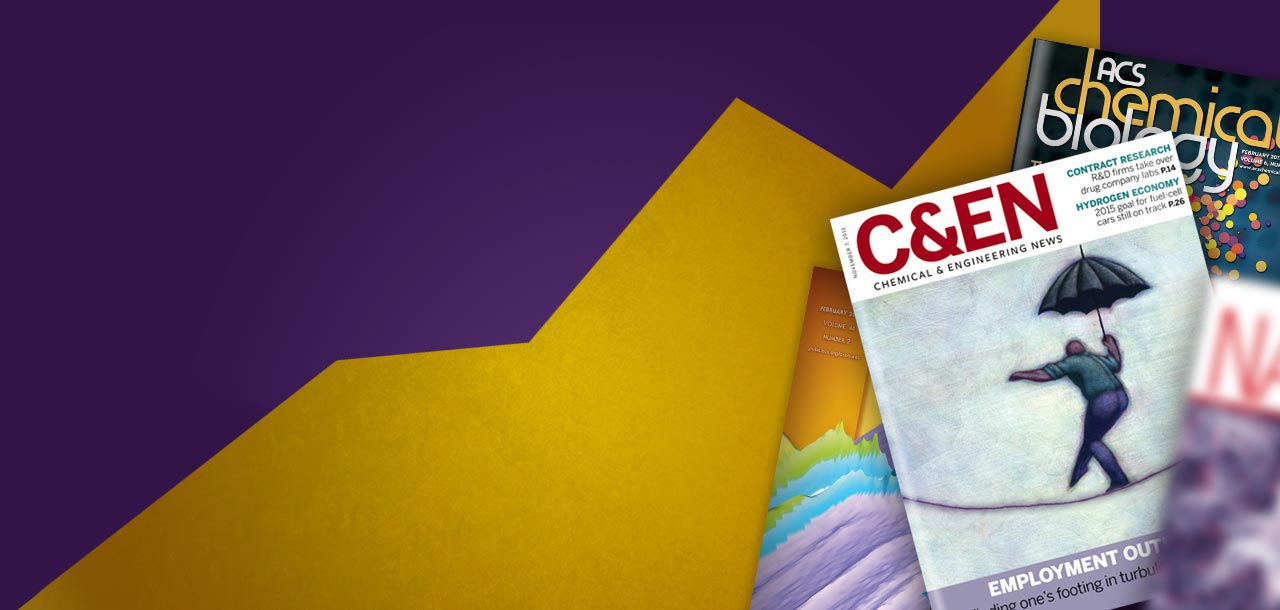
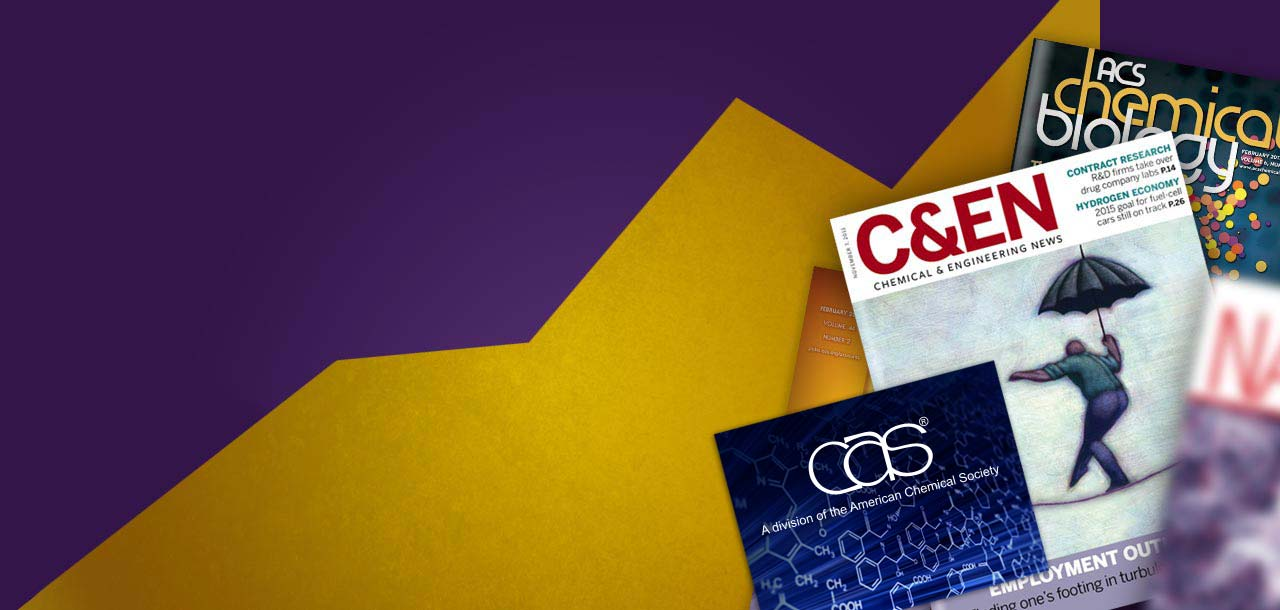
added one extra parallex graphic for goal 1, added "American Chemical Society" to header

Changed region(s): [[0.5312, 0.5918, 0.8438, 1.0]]

diff --git a/css/main.css b/css/main.css
@@ -88,7 +88,7 @@ header { position: fixed; top: 0; width: 100%; z-index: 9998; background: url(..
 .hd { position: relative; z-index: 2000; }
 .hd .row:after { clear: none; }
 .hd .acslogo { position: absolute; z-index: 2000; top: 14px; left: 16px; background: transparent url("../images/acs-logo.png") no-repeat scroll 0 0; width: 157px; height: 54px; }
-.hd .acstext { font-weight: bold; display: none; font-size: 0.9em; }
+.hd .acstext { font-weight: normal; font-size: 1em; position: absolute; top: 52px; right: 0; }
 .hd .hd-corner { width: 195px; height: 60px; background: #fff; position: relative; display: inline-block; float: left; z-index: 2000; }
 .hd .hd-corner:before { content: ""; position: absolute; top: -25px; left: 0; width: 0; height: 0; border-left: 50px solid transparent; border-right: 50px solid transparent; border-bottom: 25px solid #fff; }
 .hd .hd-corner:after { content: ""; position: absolute; bottom: -50px; left: 0; width: 0; height: 0; border-left: 98px solid transparent; border-right: 98px solid transparent; border-top: 50px solid #fff; }
@@ -239,9 +239,10 @@ dl.tabs dd a.active, dl.tabs dd a:hover { color: #226ABC; font-weight: bold; }
 #goal1 .goal-intro .bg { position: absolute; background-repeat: no-repeat; background-position: 75% 20px; background-attachment: fixed; width: 100%; height: 401px; display: none; }
 #goal1 .goal-intro #parallax { position: absolute; right: 0; bottom: 0; width: 40%; height: 400px; }
 #goal1 .goal-intro .sprite { position: absolute; background-color: transparent; background-repeat: no-repeat; background-position: 0 0; display: none; }
-#goal1 .goal-intro .sprite.layer1 { background-image: url(../images/goal1-sprite1.png) !important; width: 727px; height: 750px; top: 90% !important; right: -460px; z-index: 3; }
+#goal1 .goal-intro .sprite.layer1 { background-image: url(../images/goal1-sprite1.png) !important; width: 727px; height: 750px; top: 90% !important; right: -460px; z-index: 4; }
 #goal1 .goal-intro .sprite.layer2 { width: 500px; height: 565px; background-position: -11px -24px; right: -40px; z-index: 2; }
 #goal1 .goal-intro .sprite.layer3 { width: 626px; height: 760px; background-position: -515px -1px; top: -90px; right: -90px !important; z-index: 1; }
+#goal1 .goal-intro .sprite.layer4 { width: 350px; height: 255px; background-position: -959px -478px; top: 46%; right: 230px !important; z-index: 3; }
 
 #goal2 .goal-intro { background: #111; }
 #goal2 .goal-intro .sprite-wrap { position: relative; top: -137px; margin: 0 auto; width: 1280px; height: 400px; }
@@ -305,7 +306,7 @@ dl.tabs dd a.active, dl.tabs dd a:hover { color: #226ABC; font-weight: bold; }
   header { background-position: 0 0; min-height: 45px; }
   header .hd .acslogo { display: none; }
   header .hd .hd-corner { display: none; }
-  header .hd .acstext { display: inline-block; float: left; margin-top: 7px; }
+  header .hd .acstext { display: inline-block; float: left; margin-top: 7px; font-weight: bold; font-size: 0.9em; }
   header nav { top: 1px; width: auto; }
   header nav ul { display: none; }
   header nav select { display: inline-block; }

diff --git a/index.html b/index.html
@@ -171,6 +171,7 @@
 				<span class="sprite layer1 parallax-layer"></span>
 				<span class="sprite layer2 parallax-layer"></span>
 				<span class="sprite layer3 parallax-layer"></span>
+				<span class="sprite layer4 parallax-layer"></span>
 			</div>
 		</span>
 		<div class="row">
@@ -225,9 +226,9 @@
 						</ul>
 					</li>
 				</ul>
-				<div class="extras">
+				<!--div class="extras">
 					<a class="video" title="Video"><span></span><span class="label">Play Video</span></a></div>
-				</div>
+				</div-->
 			</div>
 			<div class="three columns">&nbsp;</div>
 		</div>
@@ -558,5 +559,48 @@
 <script type="text/javascript" src="http://assets.acs.org/prod/js/lib/jquery/jquery-1.6.2.min.js"></script>
 <script type="text/javascript" src="js/compiled.js"></script>
 <script type="text/javascript" src="js/script.js"></script>
+
+<!-- Omniture Tagging Start -->
+<!-- SiteCatalyst code version: H.22.
+Copyright 1996-2010 Adobe, Inc. All Rights Reserved
+More info available at http://www.omniture.com -->
+<script type="text/javascript" src="https://assets.acs.org/prod/js/lib/omniture/s_code.js"></script>
+<script language="JavaScript" type="text/javascript">
+<!--
+//////VARIABLES SET ON ALL PAGES//////
+
+var baseURL = location.hostname.toLowerCase() + location.pathname.toLowerCase();
+s.pageName = 'About Us:' + baseURL;  // Set the page name equal to the URL.
+
+/////// Replacing part of the page name with other values/////
+if(s.pageName){      s.pageName = s.pageName.replace(/acswebcontent.acs.org\//i,'');}
+s.eVar11 = s.pageName;
+s.prop23 = s.channel =	'About Us';
+s.prop1 = s.evar1 ='About Us:Strategic Plan';
+s.prop2 = s.evar2 = s.prop3 = s.evar3 = 'About Us:Strategic Plan:Stragegic Plan 2012';
+s.hier1 ='About Us:Strategic Plan:Stragegic Plan 2012';
+s.prop22 ='strategy.acs.org';
+//s.server =			//Server, if available: '172.29.11.242', '172.29.11.243';
+
+
+//////VARIABLES SET ON CONTENT PAGES////
+//s.prop4 = 			//content_type
+//s.prop5 = 			//content_title
+//s.prop6 = 			//ContentId 
+
+//////VARIABLES SET ON SEARCH RESULTS PAGES////
+//s.prop7 = 			//Search terms
+//s.prop13 = s.eVar23 = 	//Search type -OR- 'Unknown Search' if unknown search
+//s.events=			//'event1' for Search results page
+
+
+    /************* DO NOT ALTER ANYTHING BELOW THIS LINE ! **************/
+var s_code=s.t();if(s_code)document.write(s_code)//--></script>
+<script language="JavaScript" type="text/javascript"><!--
+if(navigator.appVersion.indexOf('MSIE')>=0)document.write(unescape('%3C')+'\!-'+'-')
+//--></script><noscript><img src="http://americanchemicalsociety.122.2o7.net/b/ss/achsportal/1/H.22.1--NS/0"
+height="1" width="1" border="0" alt="" /></noscript><!--/DO NOT REMOVE/-->
+<!-- End SiteCatalyst code version: H.22.1. -->
+<!-- Omniture Tagging End -->
 </body>
 </html>

diff --git a/css/main.scss b/css/main.scss
@@ -192,9 +192,11 @@ header {
 		height:54px;
 	}
 	.acstext { 
-		font-weight:bold; 
-		display:none; 
-		font-size:0.9em; 
+		font-weight:normal; 
+		font-size:1em; 
+		position:absolute;
+		top:52px;
+		right:0;
 	}
 	.hd-corner { 
 		width: 195px; 
@@ -325,6 +327,7 @@ nav {
 		color:#fff; 
 	}
 }
+
 
 // -----------------------------------------
 //   Core Value
@@ -909,7 +912,7 @@ dl.tabs { margin:2.5em 0 1.5em;
 			height:750px;
 			top:90% !important;
 			right:-460px;
-			z-index:3
+			z-index:4;
 		}
 		&.layer2 { 
 			width:500px;
@@ -925,6 +928,14 @@ dl.tabs { margin:2.5em 0 1.5em;
 			top:-90px;
 			right:-90px !important;
 			z-index:1;
+		}
+		&.layer4 { 
+			width:350px;
+			height:255px;
+			background-position:-959px -478px; 
+			top:46%;
+			right:230px !important;
+			z-index:3;
 		}
 	}		
 }
@@ -1106,20 +1117,24 @@ dl.tabs { margin:2.5em 0 1.5em;
 
 @media only screen and (max-width: 767px) {
 	.block-grid.mobile.four-up li { float:left; width:48%; margin-left:2%; }
-	
 	.downloadpdf { 
 		right:0%;
 		top:20px;
 		float:none;
-	}
-	
+	}	
 	header { 
 		background-position:0 0; 
 		min-height:45px; 
 		.hd { 
 			.acslogo { display:none; }
 			.hd-corner { display:none; }
-			.acstext { display:inline-block; float:left; margin-top:7px; }
+			.acstext { 
+				display:inline-block; 
+				float:left; 
+				margin-top:7px; 
+				font-weight:bold; 
+				font-size:0.9em; 
+			}
 		}
 		nav { 
 			top:1px; 

diff --git a/js/script.js b/js/script.js
@@ -214,11 +214,12 @@ $(document).ready(function() {
 	if(/msie|MSIE 6/.test(navigator.userAgent)) {
 	}else { 
 		//goal 1 parallax
-	  	jQuery('#goal1 #parallax .sprite').parallax(
+	  	jQuery('#goal1 #parallax .parallax-layer').parallax(
 	  		{}, //{mouseport: jQuery("#goal1 #parallax")},
 	  		{xparallax:false, xtravel:'10px' ,ytravel:'20px'}, //layer 0
-	  		{xparallax:true, xtravel:'20px'}, //layer 1
-	  		{xparallax:false, xtravel:'5px', ytravel:'5px'} //layer 2
+	  		{xparallax:true, xtravel:'20px', ytravel:'50px'}, //layer 1
+	  		{xparallax:false, xtravel:'5px', ytravel:'5px'}, //layer 2
+	  		{yparallax:false, xtravel:'20px'}
 	  	);
 	}
 

diff --git a/README.md b/README.md
@@ -1,2 +1,2 @@
-12-30-2012 -	added download pdf button, adjusted css for mobile
+12-30-2012 -	added download pdf button, adjusted css for mobile, added extra parallex image under goal 1, added "American Chemical Society" to header per Madeleine's request.
 				(Known bug: when click play video button, after the shadow box open and you click X to close, the video will continue to play. Flowplayer $f("*").stop(); not working. But was working a week ago, strange.)
